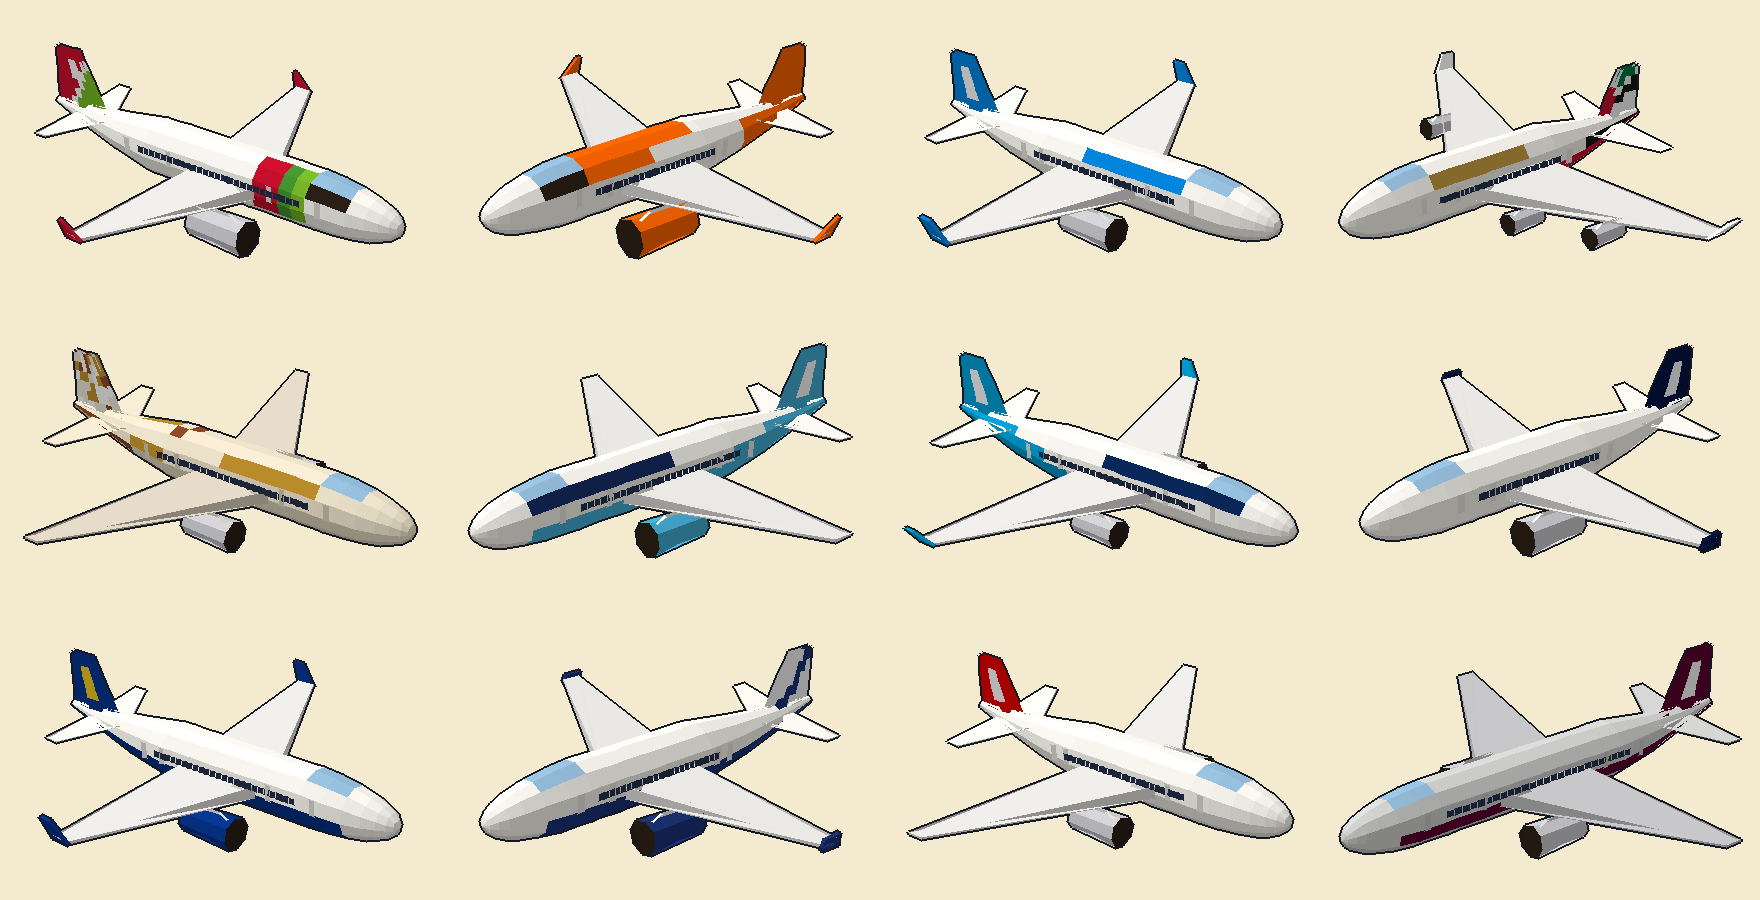
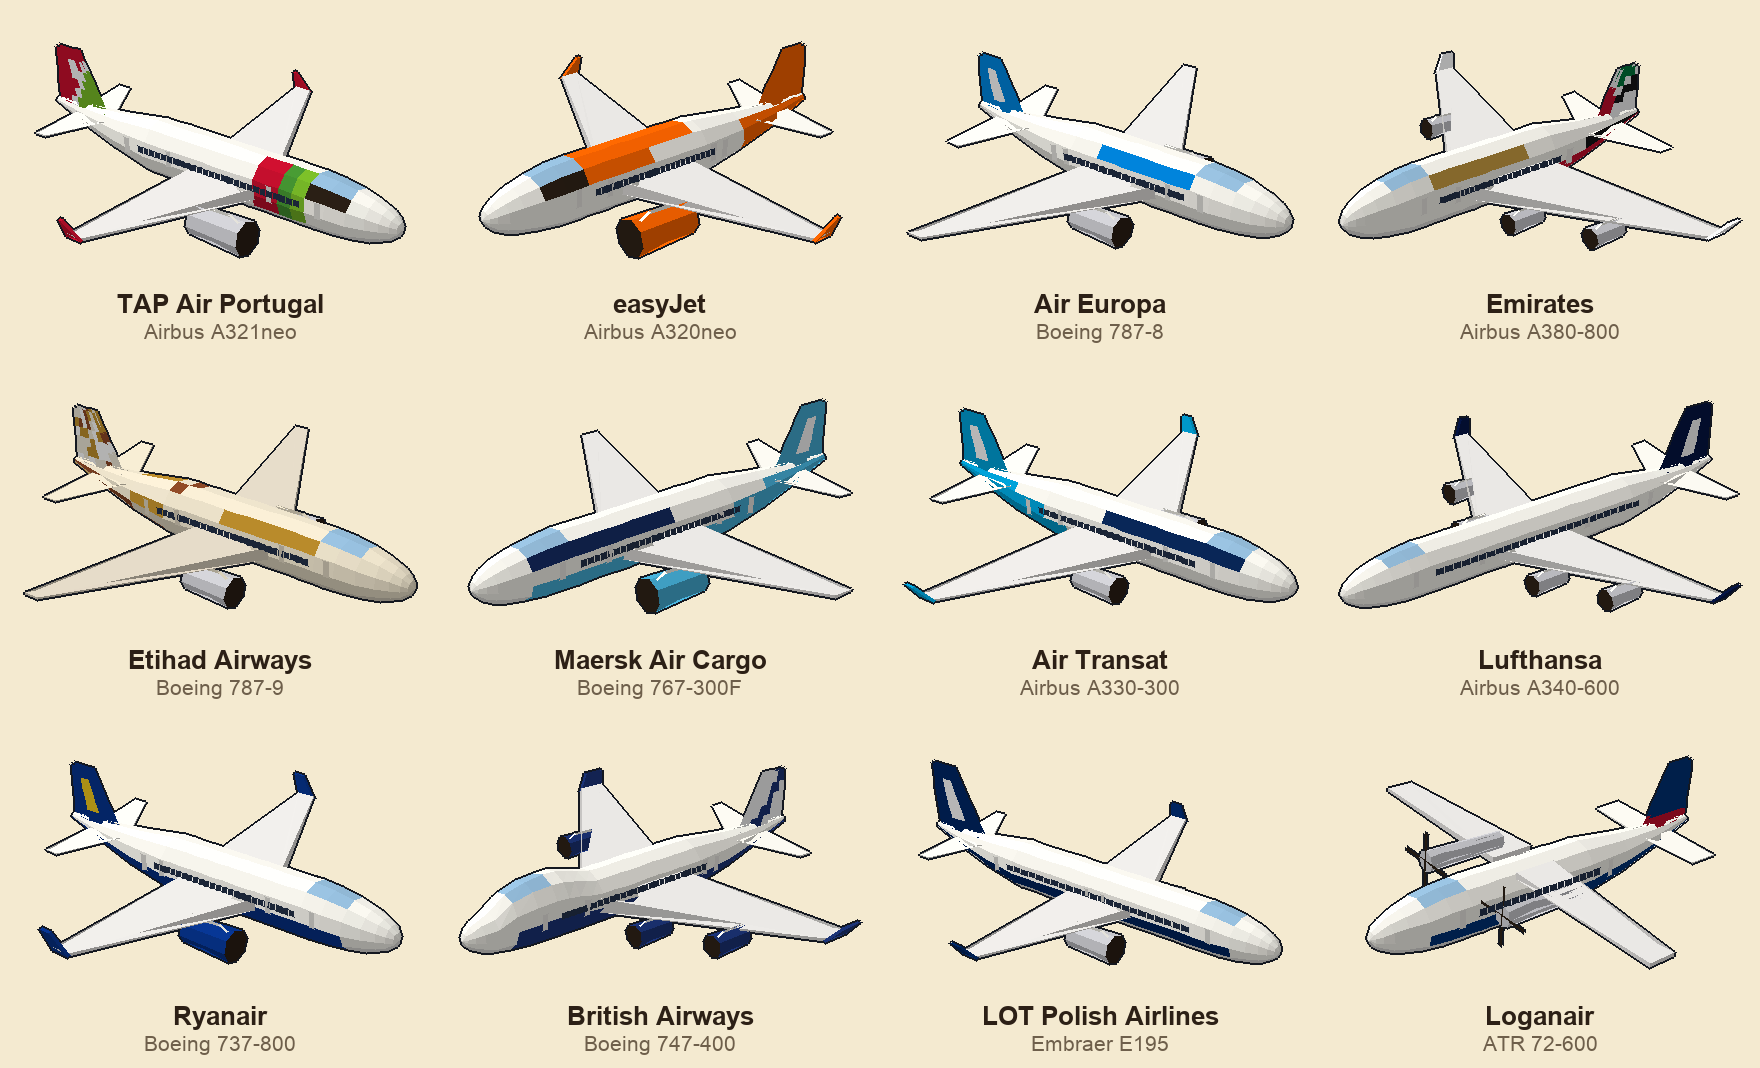
README image: label airline and aircraft model, one airline per plane, varied types

diff --git a/README.md b/README.md
@@ -7,7 +7,7 @@ type, route, altitude, speed, distance, a compass, and a shaded 3D model in the 
 
 ![3D aircraft models rendered by the firmware's own code (host-side preview)](docs/images/models.png)
 
-<sub>TAP, easyJet, Air Europa, Emirates / Etihad, Maersk Air Cargo, Air Transat, Lufthansa / Ryanair, British Airways, Qantas, Qatar. Rendered on the host from the same 3D code that runs on the board, so the shapes and liveries match; the real screen is 320×240 and looks smaller and blockier.</sub>
+<sub>Twelve airlines on twelve aircraft types, rendered on the host from the same 3D code that runs on the board, so the shapes and liveries match; the real screen is 320×240 and looks smaller and blockier.</sub>
 
 ## Features
 - **Carousel** of the nearest aircraft (default 40 km), touch to skip ahead. 20 s data refresh.
